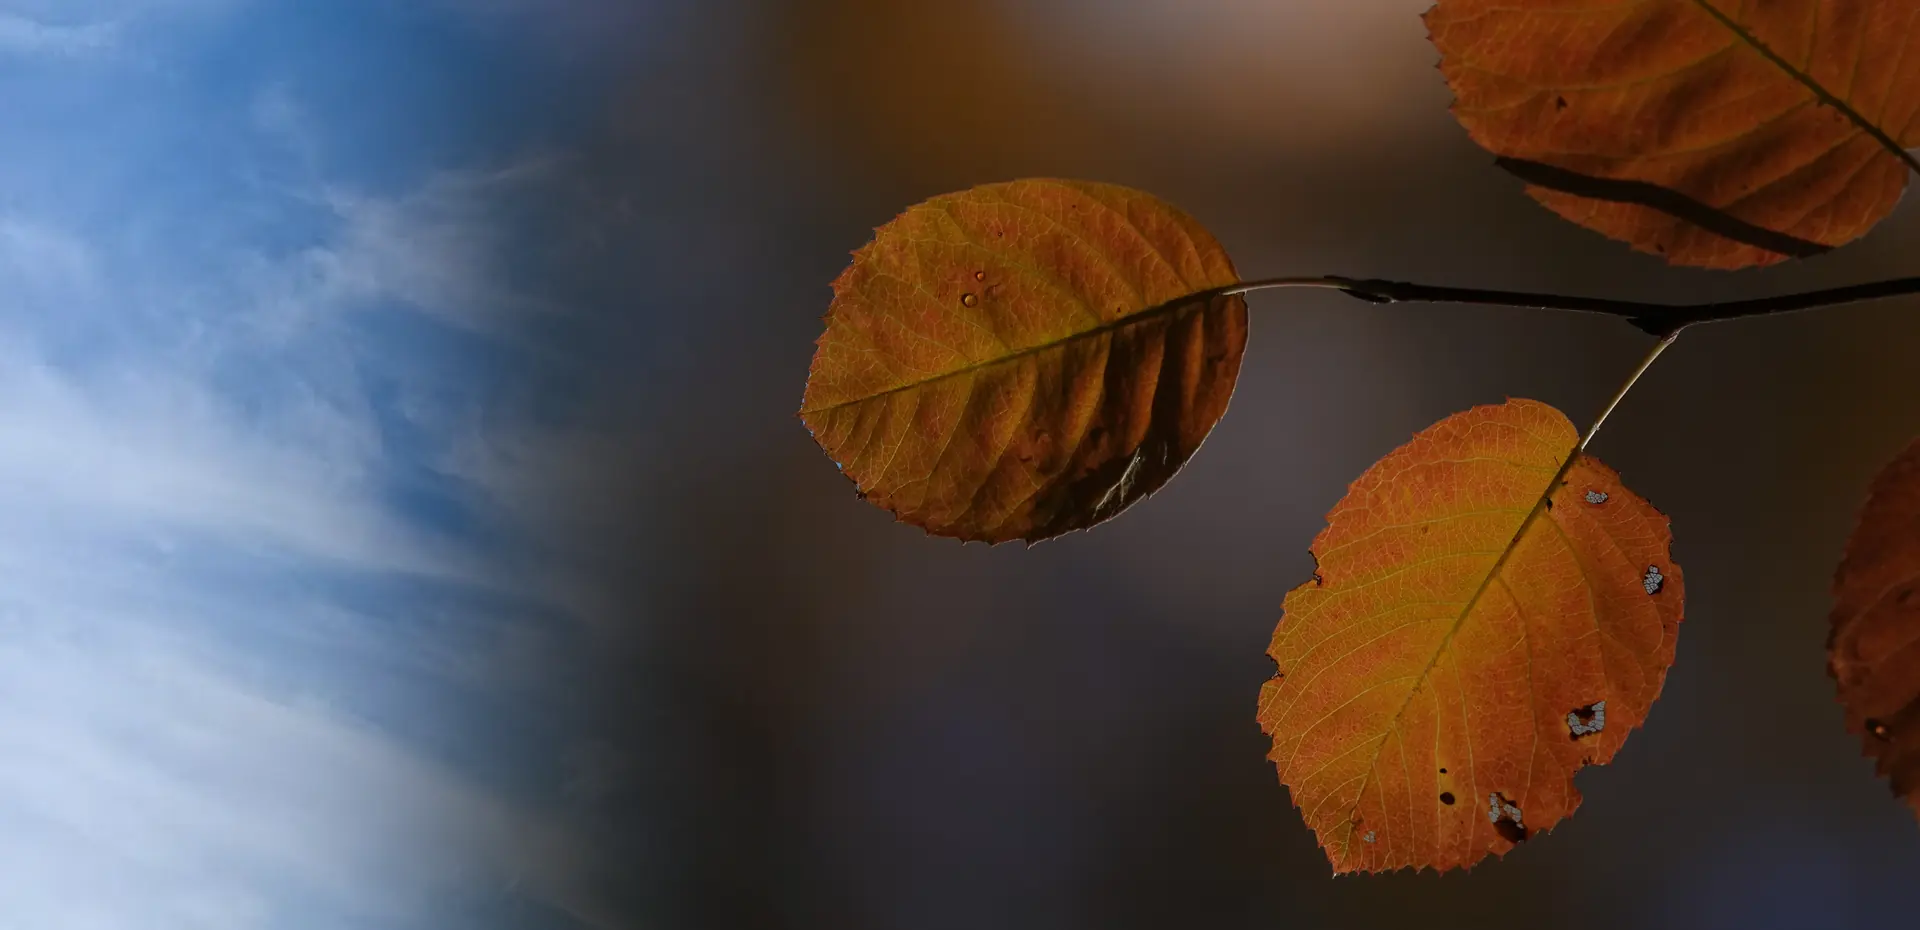
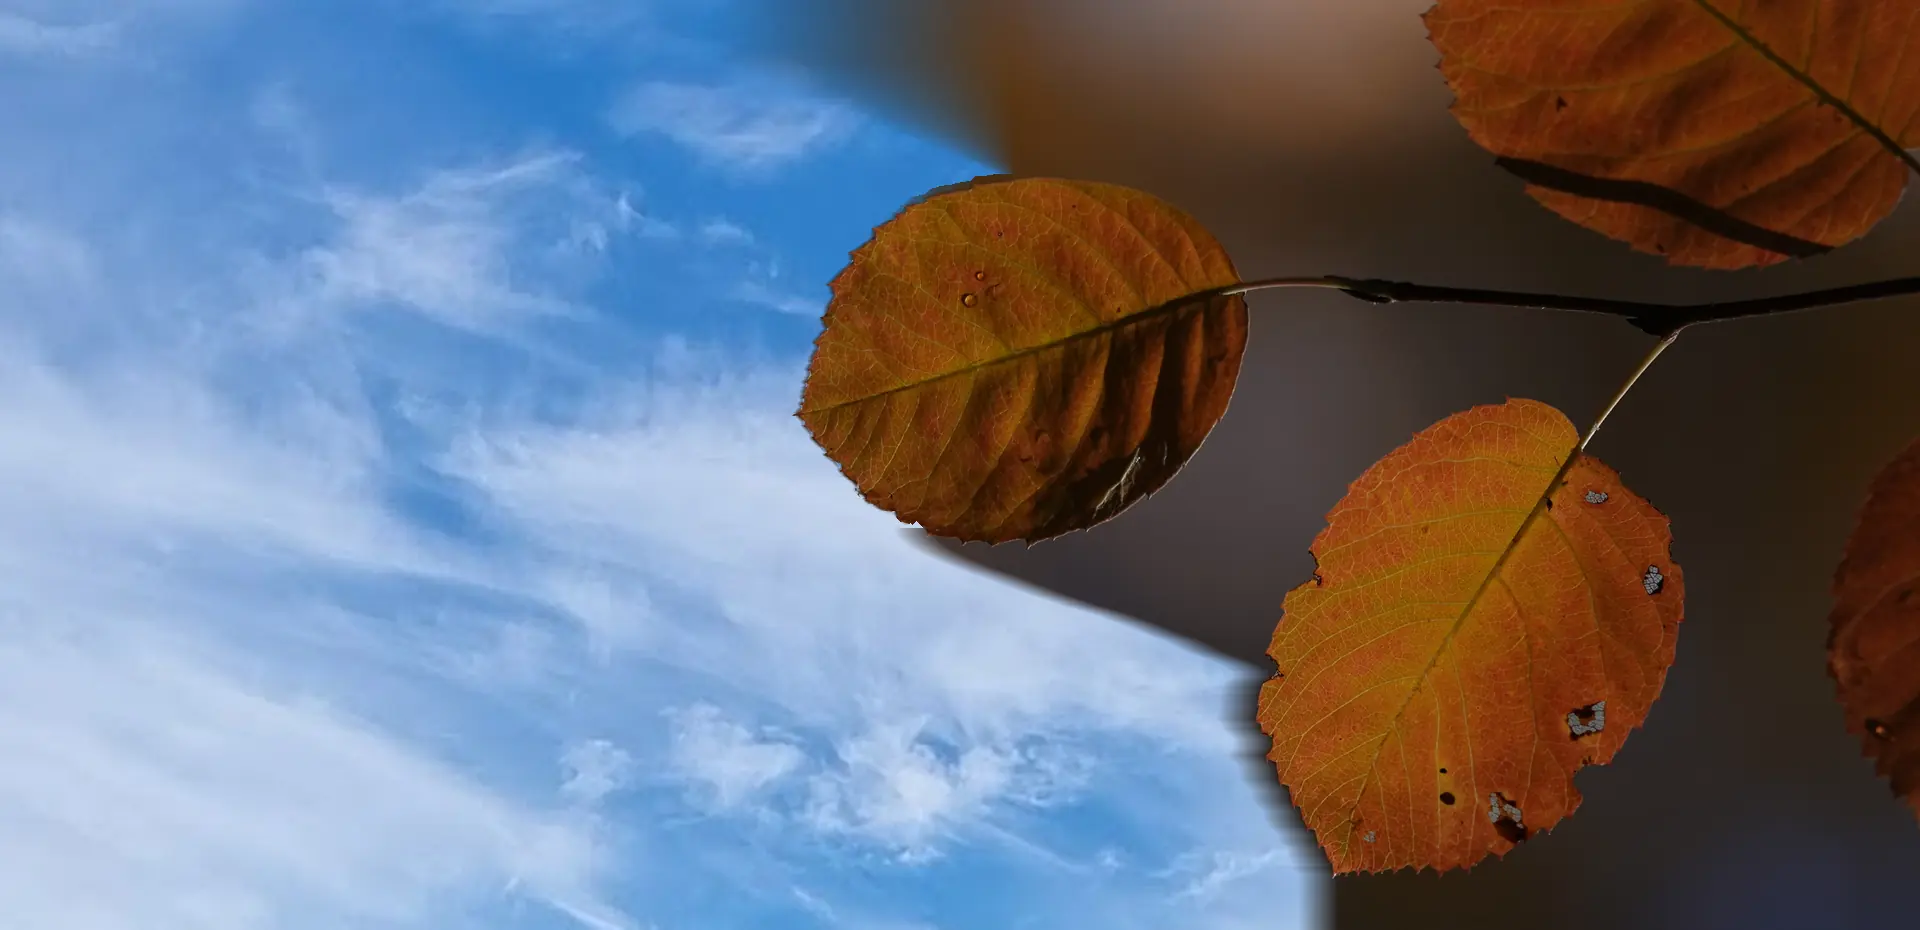
Etusivun hero: taivas rajautuu lehden ääriviivaan ilman tummennusta
Lehdet tunnistetaan värin (R-B) ja reunan terävyyden perusteella; taivas
on täysin kirkas vasemman lehden reunaan asti ja kaartuu sen alta
alemman lehden reunaan. Mobiilissa kuva 30 % vasemmalle, jotta
valikkokuvake ei jää kirkkaalle taivaalle (2,9:1 -> 6,8:1).

diff --git a/style.css b/style.css
@@ -255,7 +255,7 @@ a {
    Siksi tumma kaista ulottuu 140px:ään asti — se on navigaation takana. */
 .hero {
   /* Ei tummennusta. Kuva on koostettu: vasemmalla taivas logon takana,
-     häivytetty ennen vasenta lehteä (lähteet ja asetukset
+     rajautuu vasemman lehden ääriviivaan (lähteet ja menetelmä
      tyokalut/koosta-etusivun-hero.py). Vasen reuna ankkuroituna, jotta
      kapeassa ruudussa taivas pysyy logon takana eikä rajaudu pois. */
   background: var(--img-hero) left 33% / cover no-repeat;
@@ -1247,6 +1247,12 @@ a {
 }
 
 @media (max-width: 760px) {
+  /* Kuvaa vasemmalle, jotta valikkokuvake osuu lehden/tumman taustan päälle
+     (taivasta vasten 2,9:1) ja logo jää silti taivaalle. */
+  .hero {
+    background-position: 30% 33%;
+  }
+
   .nav-toggle {
     display: flex;
     flex-direction: column;

diff --git a/tyokalut/koosta-etusivun-hero.py b/tyokalut/koosta-etusivun-hero.py
@@ -1,19 +1,24 @@
 #!/usr/bin/env python3
-"""Koostaa etusivun herokuvan: taivas vasemmalla, syyslehdet oikealla.
+"""Koostaa etusivun herokuvan: taivas lehden vasemmalla puolella.
 
-MIKSI KOOSTE EIKÄ CSS-LIUKUVÄRI: sininen liukuväri logon takana näytti
-keinotekoiselta. Taivaskuva häivytetään lehtikuvaan, ja samalla taivas
-tummuu asteittain kohti siirtymää, jotta kirkas taivas ei katkea jyrkästi
-lehtikuvan tummaan taustaan.
+MIKSI KOOSTE: sininen CSS-liukuväri logon takana näytti keinotekoiselta, ja
+taivaan häivyttäminen tummaan taustaan näytti kollaasilta. Nyt taivas on
+täysin kirkas lehden vasempaan reunaan asti, ja RAJAN MUODOSTAA LEHDEN OMA
+ÄÄRIVIIVA -- kuin lehti olisi kuvattu taivasta vasten. Oikealla puolella
+lehtikuvan tumma tausta säilyy, koska valikon valkoinen teksti on siellä.
+
+Lehden tunnistus (värin ja reunan perusteella, ei käsin piirrettyä maskia):
+  * lehti on oranssi, tausta harmaanruskea -> R-B-ero erottaa ne
+  * lehden yläpuolella on lehdenväristä sumeaa taustaa. Se erotetaan
+    reunan terävyydellä: lehden reuna on terävä (sobel 28-153), sumean
+    taustan pehmeä (2-4)
+  * lehden ylä- ja alapuolella raja jatkuu lehden kärjestä ja pehmenee
+    asteittain, ettei synny pystysaumaa
 
 Geometria on mitoitettu 1440 px ruudulle (kerrotaan 4/3 -> 1920 px):
-  * lehtikuva alkaa x=200, joten lehdet ovat oikealla eivätkä osu logoon
-  * taivas täysin näkyvä x=200 asti, häipyy kokonaan x=600 mennessä, eli
-    ennen vasemman lehden reunaa (~600)
-  * logo on 1440 px:ssä kohdassa 160-321, 1920 px:ssä 400-561 -> taivaalla
-CSS:ssä kuva on `left 33% / cover`: leveissä ruuduissa kuva skaalautuu
-leveyden mukaan, joten suhteet pysyvät; kapeissa vasen reuna (taivas) jää
-logon taakse ja oikea reuna rajautuu pois.
+lehtikuva alkaa x=200, joten lehdet ovat oikealla eivätkä osu logoon.
+CSS:ssä kuva on `left 33% / cover`: kapeassa ruudussa vasen reuna (taivas)
+jää logon taakse ja oikea reuna rajautuu pois.
 
 Lähteet (eivät repossa, alkuperäinen on 3,9 Mt):
   /home/markus/lahtodata/plandisain-kuvat/syyslehdet-alkuperainen.jpg (5472x3080)
@@ -26,6 +31,7 @@ from pathlib import Path
 
 import numpy as np
 from PIL import Image
+from scipy import ndimage
 
 LAHDE = Path("/home/markus/lahtodata/plandisain-kuvat")
 juuri = Path(__file__).resolve().parent.parent
@@ -33,14 +39,9 @@ juuri = Path(__file__).resolve().parent.parent
 K = 4 / 3            # 1440 -> 1920
 LEVEYS = 1920
 SIIRTO = 200         # lehtikuvan vasen reuna (1440-mitoissa)
-TAIVAS_TAYSI = 200   # taivas täysin näkyvä tähän asti
-TAIVAS_LOPPU = 600   # taivas häipynyt kokonaan
-TUMMUUS = 0.55       # taivaan kirkkaus siirtymän lopussa
-
-
-def smoothstep(x, a, b):
-    t = np.clip((x - a) / (b - a), 0, 1)
-    return t * t * (3 - 2 * t)
+LEHDEN_PISTE = (300, 950)   # (y, x) varmasti vasemman lehden sisällä, 1920-kuvassa
+ALA_LEHDEN_PISTE = (640, 1470)  # (y, x) alemman lehden sisällä
+TERAVYYS = 15        # lehden reunan sobel-raja; sumea tausta jää alle
 
 
 def main() -> None:
@@ -49,30 +50,68 @@ def main() -> None:
 
     siirto = round(SIIRTO * K)
     lw = LEVEYS - siirto
-    korkeus = round(lehti.height * lw / lehti.width)
+    H = round(lehti.height * lw / lehti.width)
 
-    pohja = Image.new("RGB", (LEVEYS, korkeus))
-    pohja.paste(lehti.resize((lw, korkeus), Image.LANCZOS), (siirto, 0))
+    pohja = Image.new("RGB", (LEVEYS, H))
+    pohja.paste(lehti.resize((lw, H), Image.LANCZOS), (siirto, 0))
     # Vasen kaista lehtikuvan omalla reunalla peilattuna; jää taivaan alle.
-    reuna = pohja.crop((siirto, 0, siirto * 2, korkeus)).transpose(Image.FLIP_LEFT_RIGHT)
-    pohja.paste(reuna, (0, 0))
+    pohja.paste(pohja.crop((siirto, 0, siirto * 2, H)).transpose(Image.FLIP_LEFT_RIGHT), (0, 0))
+    P = np.asarray(pohja, float)
+    r, b = P[..., 0], P[..., 2]
 
-    s = korkeus / taivas.height
-    taivas_kork = Image.new("RGB", (LEVEYS, korkeus))
-    taivas_kork.paste(taivas.resize((round(taivas.width * s), korkeus), Image.LANCZOS), (0, 0))
+    # Pehmeä lehtimaski reunojen sekoitukseen, tiukka maski muodon hakuun.
+    pehmea = np.clip((r - b - 25) / 30, 0, 1)
+    tiukka = ndimage.binary_opening((r - b > 45) & (r > 75), iterations=4)
+    osat, _ = ndimage.label(tiukka)
+    vasen_lehti = osat == osat[LEHDEN_PISTE]
+    vasen_lehti = ndimage.binary_fill_holes(ndimage.binary_closing(vasen_lehti, iterations=5))
 
-    x = np.arange(LEVEYS) / K
-    alfa = 1 - smoothstep(x, TAIVAS_TAYSI, TAIVAS_LOPPU)
-    kirkkaus = 1 - (1 - TUMMUUS) * smoothstep(x, 0, TAIVAS_LOPPU)
+    # Rivikohtainen vasen reuna; mukaan vain rivit joilla reuna on terävä.
+    reuna = np.where(vasen_lehti.any(1), np.argmax(vasen_lehti, 1), LEVEYS)
+    harmaa = ndimage.gaussian_filter(P.mean(2), 1)
+    gx = np.abs(ndimage.sobel(harmaa, 1))
+    rivit = np.where(reuna < LEVEYS)[0]
+    terava = np.array([gx[y, max(reuna[y] - 6, 0):reuna[y] + 6].max() for y in rivit])
+    rivit = rivit[terava > TERAVYYS]
+    ylin, alin = rivit[0], rivit[-1]
 
-    t = np.asarray(taivas_kork, float) * np.tile(kirkkaus, (korkeus, 1))[..., None]
-    m = np.tile(alfa, (korkeus, 1))[..., None]
-    kuva = Image.fromarray((t * m + np.asarray(pohja, float) * (1 - m)).astype("uint8"))
+    # Alempi lehti: sen vasen reuna on rajana vasemman lehden alapuolella.
+    ala = osat == osat[ALA_LEHDEN_PISTE]
+    ala = ndimage.binary_fill_holes(ndimage.binary_closing(ala, iterations=5))
+    ala_reuna = np.where(ala.any(1), np.argmax(ala, 1), LEVEYS).astype(float)
+    ala_rivit = np.where(ala_reuna < LEVEYS)[0]
+    ala_reuna[ala_rivit[-1] + 1:] = ala_reuna[ala_rivit[-1]]
+
+    raja = np.empty(H)
+    raja[ylin:alin + 1] = reuna[ylin:alin + 1]
+    raja[:ylin] = raja[ylin]
+    # Vasemman lehden kärjestä raja kaartuu pehmeästi alemman lehden reunaan
+    # (ei vaakasaumaa kärjestä suoraan sivulle).
+    y = np.arange(H)
+    kaari = np.clip((y - alin) / 160, 0, 1)
+    kaari = kaari * kaari * (3 - 2 * kaari)
+    raja[alin + 1:] = (raja[alin] + (ala_reuna - raja[alin]) * kaari)[alin + 1:]
+
+    # Lehtien kohdalla raja on terävä (lehti peittää sen), muualla pehmeämpi.
+    etaisyys = np.where(y < ylin, ylin - y, 0)
+    pehmennys = np.where(y > alin, 40, 6 + np.minimum(etaisyys, 120) * 2.5)[:, None]
+    taivasosuus = np.clip((raja[:, None] - np.arange(LEVEYS)[None, :]) / pehmennys, 0, 1)
+
+    lehdet = vasen_lehti | ala
+    etuala = np.where(lehdet, 1.0, pehmea * ndimage.binary_dilation(lehdet, iterations=8))
+    etuala[:max(ylin - 4, 0)] = 0   # lehden yläpuolinen lehdenvärinen tausta ei ole lehteä
+
+    s = H / taivas.height
+    T = np.asarray(taivas.resize((round(taivas.width * s), H), Image.LANCZOS), float)[:, :LEVEYS]
+    T = np.pad(T, ((0, 0), (0, LEVEYS - T.shape[1]), (0, 0)), mode="edge")
+
+    t, e = taivasosuus[..., None], etuala[..., None]
+    kuva = Image.fromarray((e * P + (1 - e) * (t * T + (1 - t) * P)).astype("uint8"))
 
     # Laatu kuten optimoi-kuvat.py:n hero-syyslehdet-rivillä.
     kuva.save(juuri / "hero-syyslehdet.webp", quality=76, method=6)
     kuva.save(juuri / "hero-syyslehdet.jpg", quality=78, progressive=True, optimize=True)
-    print(f"hero-syyslehdet {kuva.width}x{kuva.height}")
+    print(f"hero-syyslehdet {kuva.width}x{kuva.height}, lehden rivit {ylin}-{alin}")
 
 
 if __name__ == "__main__":
